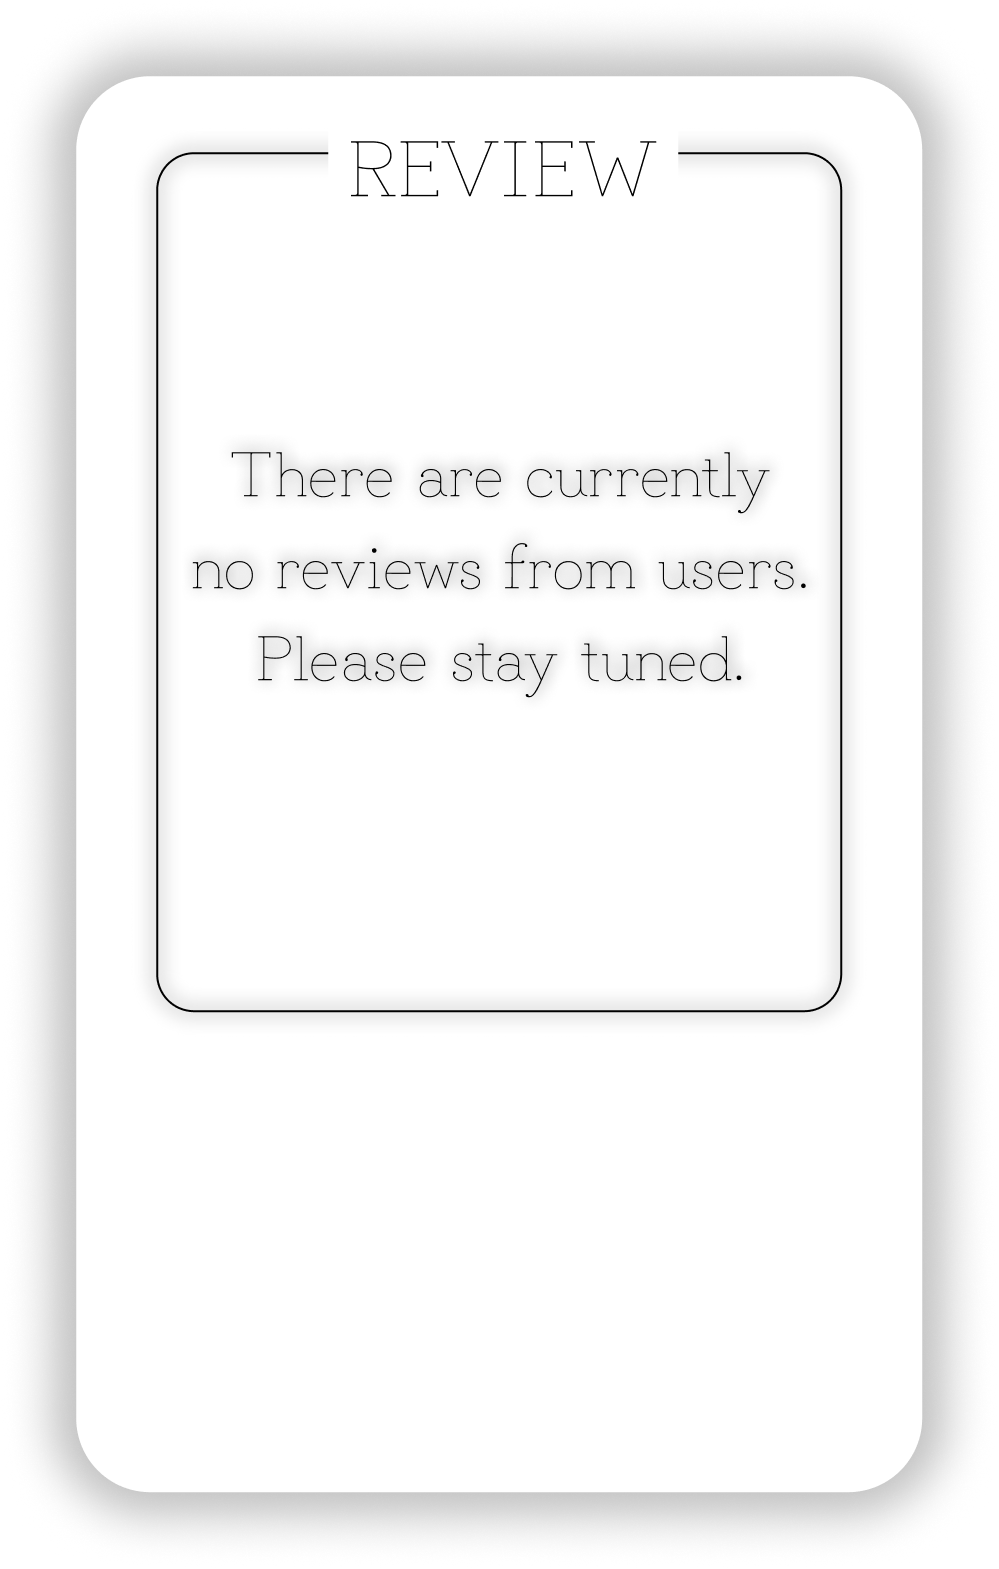
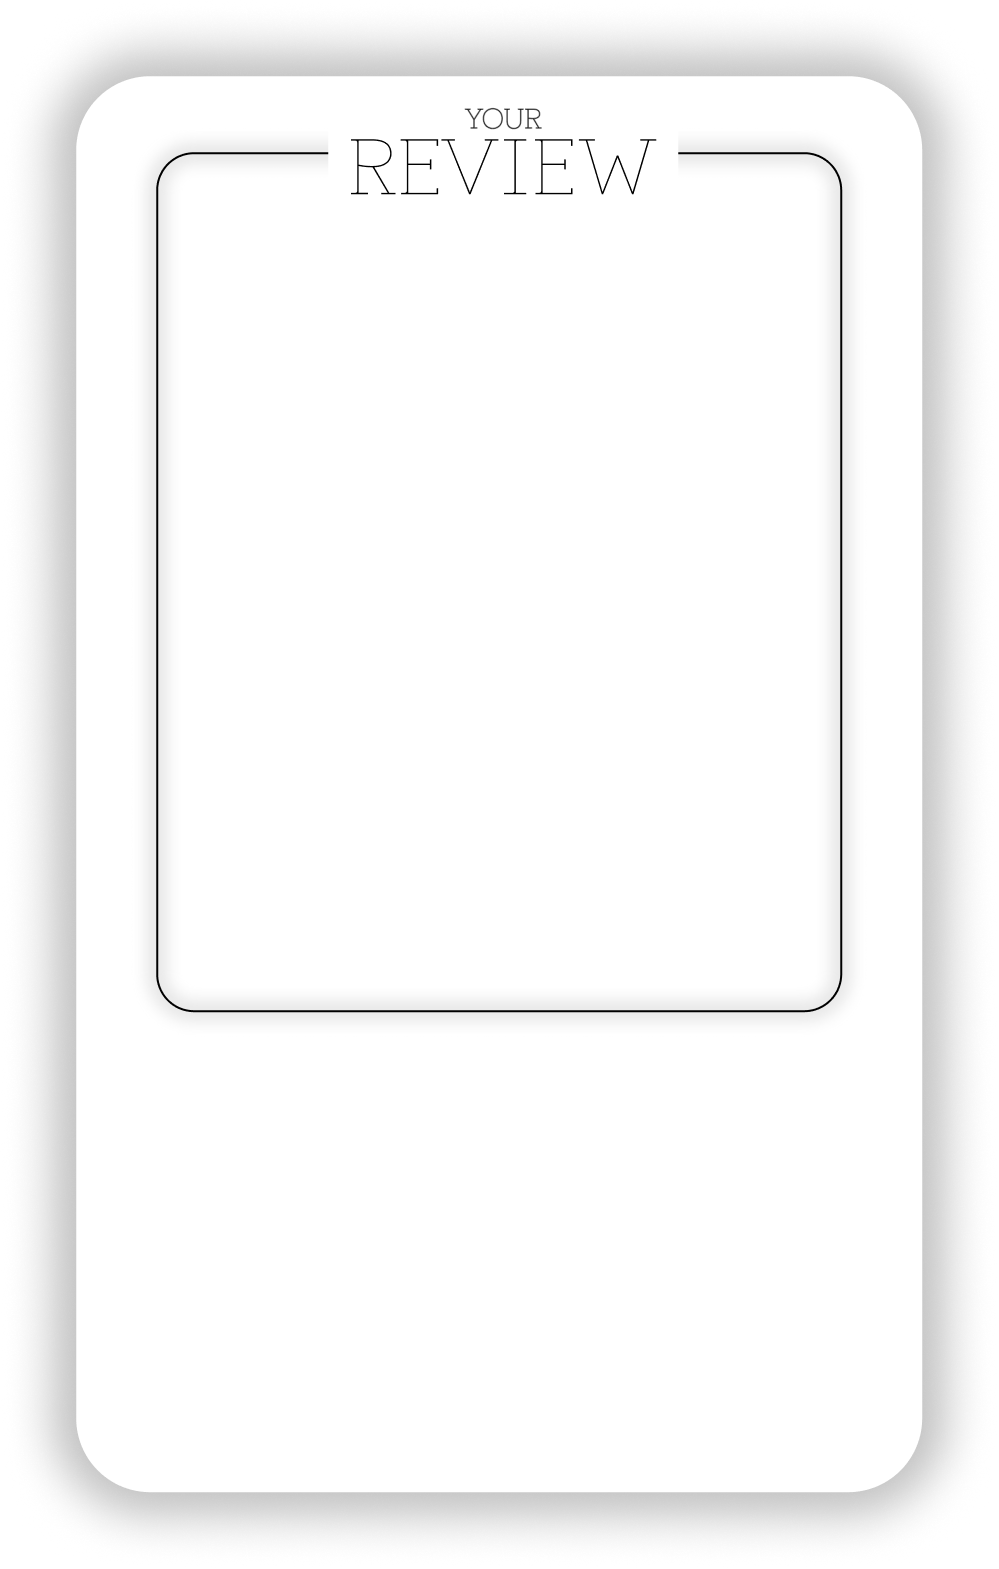
almost done jing jing

diff --git a/src/app/(main)/restaurants/page.tsx b/src/app/(main)/restaurants/page.tsx
@@ -6,15 +6,30 @@ import Card from "@/components/ui/Card";
 import Comment from "@/models/comment";
 import RestaurantHomeClient from "@/clientServer/Restaurants/RestaurantHomeClient";
 import { InnerBackground, OuterBackground } from "@/components/Background";
+import { getUser } from "@/lib/getUser";
+import { CommentType, UserType } from "@/types/types";
+import { Rating } from "@mui/material";
 
 export default async function RestaurantsPage() {
+    const user = await getUser();
 
     try {
         const { restaurants, result } = await FetchData(`${process.env.NEXTAUTH_URL}/api/restaurants`);
+        const mycomments = await FetchYourComments(`${process.env.NEXT_PUBLIC_BACKEND_URL}/api/v1/comments`);
         console.log("rating",result)
+        console.log("mycomments",mycomments)
             return (
                 <>
                     <Light/>
+
+                    <svg width="0" height="0">
+                        <defs>
+                            <linearGradient id="starGradient" x1="0%" y1="0%" x2="100%" y2="100%">
+                                <stop offset="10%" stopColor="#ffffff" />
+                                <stop offset="100%" stopColor="#ffaa00" />
+                            </linearGradient>
+                        </defs>
+                    </svg>
 
                     <div className="relative flex justify-center mt-20">
 
@@ -22,6 +37,44 @@ export default async function RestaurantsPage() {
                         <div className="fixed inset-x-0 top-[150px] bottom-0 flex justify-center">
 
                             <GridDisplay restaurants={restaurants} ratingMap={result}/>
+                            <div className="flex flex-col absolute w-[280px] h-[360px] z-20 ml-[1000px] mt-[90px]"> 
+                                { user ? 
+                                
+                                mycomments.map((it: CommentType) => (
+                                    <div key={it._id.toString()} className="text-xl">
+
+                                        <div className="flex flex-row gap-2 items-center ">
+                                            <div className="text-[#00BBFF] font-bold">{it.restaurant.name}</div>
+                                            <Rating
+                                            value={it.rating} 
+                                            readOnly
+                                            sx={{
+                                                zIndex: 2,
+                                                fontSize: "1.2rem",
+                                                
+                                                "& .MuiRating-icon svg": {
+                                                strokeWidth: 0.4,
+                                                },
+
+                                                "& .MuiRating-iconFilled svg": {
+                                                fill: "url(#starGradient)",
+                                                stroke: "black",
+                                                },
+
+                                                "& .MuiRating-iconEmpty svg": {
+                                                fill: "transparent" ,
+                                                stroke: "#333",
+                                                },
+                                            }}
+                                            />
+                                        </div>
+
+                                        <div> {it.text} </div>
+                                    </div>
+                                ))
+                                
+                                : <h1 className="text-4xl flex items-center justify-center text-4xl h-[90%]">LoginFirst</h1> }
+                            </div>
                             <InnerBackground/>
 
                         </div>
@@ -50,7 +103,6 @@ function GridDisplay({ restaurants, ratingMap }: any){
         <div className="absolute max-w-5xl w-full h-154 justify-center py-8 px-8 z-30 mr-[600px] mt-[15px] overflow-auto bg-white rounded-3xl border-2 border-black  no-scrollbar">
             <div className="grid grid-cols-2 justify-center gap-10 w-full">
                 {restaurants.map((it: any) => (
-
                     <Link href={`/restaurants/${it._id}`} key={it._id}>
                     <Card restaurant={it} ratingMap={ratingMapObj} />
                     </Link>
@@ -70,8 +122,6 @@ type Restaurant = {
 };
 
 async function FetchData(link:string){
-
-    console.log("",link)
 
     const h = await headers();
     const restaurantsRes = await fetch(link, {
@@ -119,5 +169,49 @@ async function FetchData(link:string){
     });
 
       return { restaurants, result };
+
+}
+
+async function FetchYourComments(link:string){
+    const user:UserType = await getUser();
+
+    const h = await headers();
+    const commentsRes = await fetch(link, {
+        cache: 'no-store',
+        headers: {
+            cookie: h.get("cookie") ?? "",
+        }
+    });
+
+    if (!commentsRes.ok) {
+        if (commentsRes.status === 401) {
+            throw new Error("Unauthorized");
+        }
+        if (commentsRes.status === 403) {
+            throw new Error("Forbidden");
+        }
+        if (commentsRes.status === 404) {
+            notFound();
+        }
+
+        const text = await commentsRes.text();
+        
+        console.error("STATUS:", commentsRes.status);
+        console.error("RESPONSE:", text);
+
+        throw new Error(`Fetch failed: ${commentsRes.status}`);
+    }
+
+    const commentsData = await commentsRes.json();
+    const comments = commentsData.data;
+    console.log("comments:", comments);
+
+    const myComments = comments.filter(
+        (c: any) => c.user?._id === user._id
+    );
+
+    console.log("myComments:", myComments);
+
+    return myComments;
 
 }

diff --git a/src/clientServer/Restaurants/EachRestaurantClient.tsx b/src/clientServer/Restaurants/EachRestaurantClient.tsx
@@ -49,6 +49,16 @@ export default function EachRestaurantClient({restaurants,rating,user,token}:{re
         }
     }
 
+    const checkFirst = () => {
+
+      if(user){
+        setShowComment(true);
+      }else{
+        toast("Login first");
+      }
+      
+    }
+
     return (
         <main className="flex flex-col justify-center items-center w-full flex-1 mt-5">
           <div className="fixed inset-0 -z-10">
@@ -99,7 +109,7 @@ export default function EachRestaurantClient({restaurants,rating,user,token}:{re
                 </div>
 
                 <div className="justify-end flex items-end flex-row w-full p-4 gap-x-3">
-                  {((role === 'owner' && restaurants.user === user._id)|| role === 'admin') ? (
+                  {((role === 'owner' && user && restaurants.user === user._id)|| role === 'admin') ? (
                     <>
                       <Link
                         href={`${pathname}/edit`}
@@ -114,7 +124,7 @@ export default function EachRestaurantClient({restaurants,rating,user,token}:{re
                     <>
                       <button
                         className="w-45 h-15 text-black bg-white text-[30px] rounded-lg border border-black [text-shadow:0_0_20px_white,0_0_60px_rgba(255,255,255,1),0_0_100px_rgba(255,255,255,0.8)] font-bold transition-all duration-300 ease-out hover:scale-105 hover:shadow-xl"
-                        onClick={() => setShowComment(true)}
+                        onClick={() => checkFirst()}
                       >
                         REVIEWS
                       </button>
@@ -133,7 +143,7 @@ export default function EachRestaurantClient({restaurants,rating,user,token}:{re
           {showCard && (
             <AddReserveCard user={user} restaurant={restaurants} closeCard={() => setShowCard(false)}/>
           )}
-          {showComment && <ViewCommentPopPage restaurants={restaurants} closeCard={() => setShowComment(false)} user={user}/>}
+          {showComment && user && <ViewCommentPopPage restaurants={restaurants} closeCard={() => setShowComment(false)} user={user}/>}
         </main>
     )
 }

diff --git a/src/clientServer/Restaurants/EditsrestaurantClient.tsx b/src/clientServer/Restaurants/EditsrestaurantClient.tsx
@@ -19,7 +19,7 @@ export default function EditsrestaurantClient({user,restaurants}:{user:any,resta
 
     const [name, setName] = useState(restaurants.name);
     const [address, setAddress] = useState(restaurants.address);
-    const [tel, setTel] = useState(restaurants.telephone);
+    const [telephone, setTel] = useState(restaurants.telephone);
     const [openTime, setOpenTime] = useState(restaurants.openTime);
     const [closeTime, setCloseTime] = useState(restaurants.closeTime);
     const [imgsrc, setImageURL] = useState(restaurants.imgsrc);
@@ -31,7 +31,7 @@ export default function EditsrestaurantClient({user,restaurants}:{user:any,resta
     const payload = {
       name,
       address,
-      tel,
+      telephone,
       openTime,
       closeTime,
       imgsrc,
@@ -96,7 +96,7 @@ export default function EditsrestaurantClient({user,restaurants}:{user:any,resta
 
                 <label>Tel <TextField
                   id="tel"
-                  value={tel}
+                  value={telephone}
                   type='tel'
                   onChange={(e) => setTel(e.target.value)}
                 /> </label>

diff --git a/src/components/ViewCommentPopPage.tsx b/src/components/ViewCommentPopPage.tsx
@@ -8,6 +8,7 @@ import { useRouter } from "next/navigation";
 
  const ViewCommentPopPage = ({restaurants,user,closeCard}:{restaurants:RestaurantType,user: UserType,closeCard: () => void} ) => {
     const router = useRouter();
+
     console.log("user is",user)
     const handleCreate = async (formData: FormData) => {
         
@@ -109,7 +110,7 @@ import { useRouter } from "next/navigation";
 
                                         {user._id === it.user._id ? ( 
 
-                                            <h1 className="text-blue-300">{it.user.name}</h1> 
+                                            <h1 className="text-[#00BBFF]">{it.user.name}</h1> 
 
                                             ) : (
 

diff --git a/src/app/api/restaurants/[id]/route.ts b/src/app/api/restaurants/[id]/route.ts
@@ -104,6 +104,7 @@ export async function DELETE( req: NextRequest, { params }: { params: Promise<{ 
             );
         }
 
+    console.log(`${process.env.NEXT_PUBLIC_BACKEND_URL}/api/v1/restaurants/${id}`);
     const data = await res.json();
     return NextResponse.json(data);
   } catch {

diff --git a/src/app/(main)/restaurants/[id]/page.tsx b/src/app/(main)/restaurants/[id]/page.tsx
@@ -19,7 +19,6 @@ export default async function RestaurantsPage({params}: {params: Promise<{id: st
         <>
             <Light/>
             <EachRestaurantClient token={token} restaurants={restaurant} rating={rating} user={user}/>
-
         </>
     )
 }

diff --git a/src/types/types.ts b/src/types/types.ts
@@ -33,7 +33,7 @@ export type CommentType = {
     _id: mongoose.Types.ObjectId
     text: string,
     rating: number,
-    restaurant: ReservationType,
+    restaurant: RestaurantType,
     user: UserType,
     createdAt: Date,
     updatedAt: Date,
